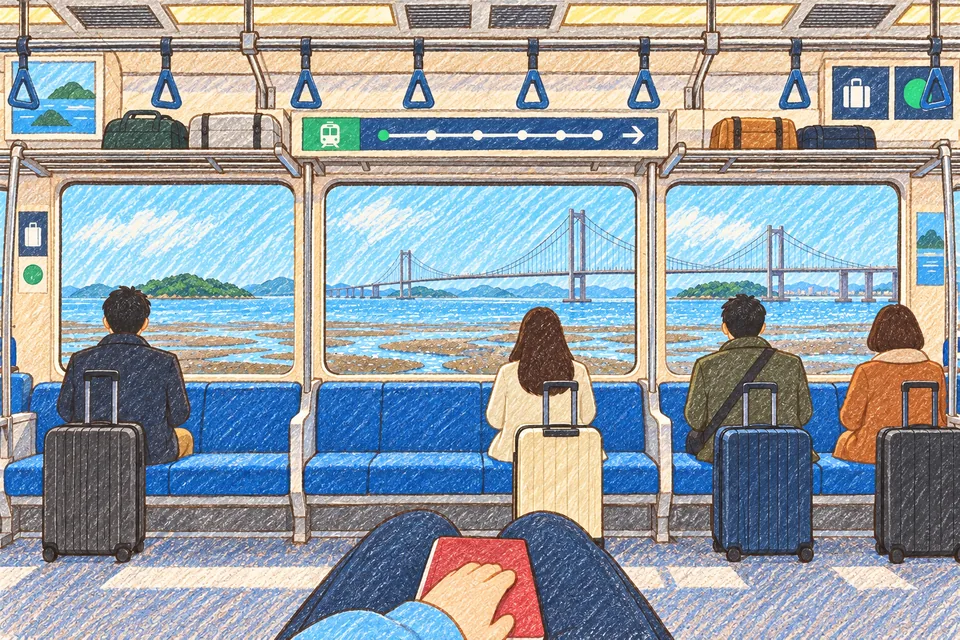
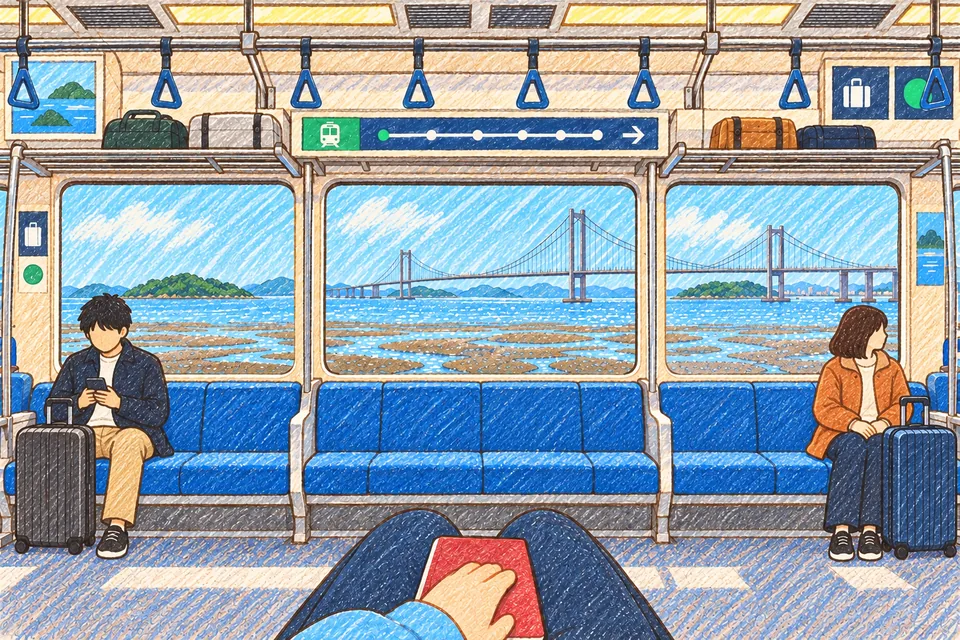
Train scene with passengers facing inward; whole route card is clickable

diff --git a/docs/trip/main.js b/docs/trip/main.js
@@ -643,6 +643,12 @@ function render() {
   (SCREENS[state.step] ?? SCREENS.intro)();
 }
 
+// 고르는 카드는 단추만이 아니라 카드의 어디를 눌러도 골라진다(사용자, 2026.10.12: "여기를 눌러도 반응하게 해줘").
+screen.addEventListener("click", (event) => {
+  const card = event.target.closest(".card");
+  if (card && !event.target.closest("button")) card.querySelector("button")?.click();
+});
+
 // ── 수첩, 설정, 말 ───────────────────────────────────────────────────
 
 function showJournal() {

diff --git a/docs/trip/style.css b/docs/trip/style.css
@@ -87,6 +87,8 @@ figure { margin: 0; }
 /* 길 카드 */
 .cards { display: grid; gap: 10px; }
 .card { position: relative; border-radius: 12px; padding: 13px 14px 12px; background: #101a44; border: 1px solid #9fb4ff55; border-left: 8px solid var(--line, #9fb4ff); }
+.card { cursor: pointer; }
+.card:active { border-color: var(--gold); background: #17245a; }
 .card h2 { font-size: 16px; }
 .card .price { font-size: 24px; font-weight: 700; font-variant-numeric: tabular-nums; }
 .card .facts { margin: 4px 0 0; padding: 0; list-style: none; font-size: 13px; line-height: 1.6; color: #c3cdea; }

diff --git a/docs/art-order-7.md b/docs/art-order-7.md
@@ -58,6 +58,8 @@ P4로 정한 날(2026.10.10)에 새 기획의 첫 쪽에 쓰는 장면을 모두
 
 **한 번 헛돈 것.** 처음에는 받을 이름을 참고 그림의 이름과 같게 주었다(`icn-gates.png`). 주문 도구가 받을 자리를 비우며 참고 그림을 지워, 여덟 가운데 다섯이 "참고 그림이 없다"는 답만 하고 끝났다. 받을 이름을 `icn-gates-p4.png` 처럼 달리해 다시 넣어 다섯을 받았다. 도구(`tools/art-order.sh`)가 이제 이름이 겹치면 주문하지 않고 알린다.
 
+**`arex-ride` 를 한 번 더 받았다(2026.10.12).** 사용자가 그림을 보고 짚었다: "사람이 저렇게 앉아있을 수가 없잖아". 맞은편의 긴 의자는 창을 등지고 앉는 의자인데 승객 넷이 모두 창을 보고 등을 이쪽으로 돌려 앉아 있었다. 그 그림을 참고로 넣고 "승객을 둘로 줄여 양 끝에 앉히고, 등을 창 쪽에 기대고 몸이 이쪽을 향하게, 가운데 의자는 비워 다리가 보이게"라고 써서 다시 받았다(`assets/codex/order7/p4-arex-ride-fix.txt`). 한 번에 왔다. **전철 안을 주문할 때는 사람이 어느 쪽을 보고 앉는지를 적는다.**
+
 아직 P4로 받지 않은 것: 셋째 판의 성수동과 홍대 12장(`docs/assets/scenes/`). 새 기획의 "노는 쪽"을 지을 때 다시 받는다. 그 가운데 `seongsu-eat`, `hongdae-eat` 는 소매도 하늘색으로 바꾼다.
 
 ## 4. 다시 주문하는 법
